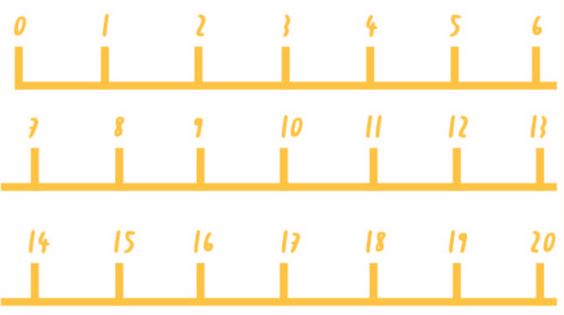
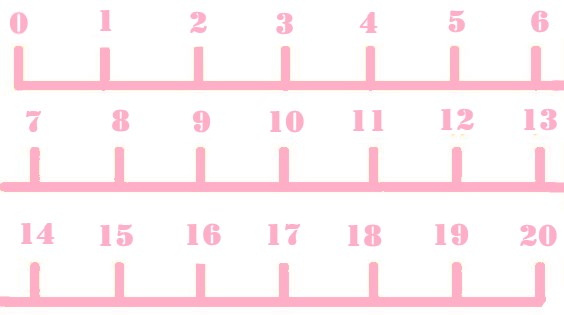
Update

diff --git a/numberLineReceptionMaths/Mechanism.js b/numberLineReceptionMaths/Mechanism.js
@@ -22,11 +22,11 @@ function main(){
         
         if (userAnswerValue===calculatedAnswer) {
             result.className = "correct"
-            result.innerHTML = "You did it Lily, well done!( " + firstNumberLabel.innerText + operatorLabel.innerText + secondNumerLabel.innerText + "=" + userAnswerValue +" )";
+            result.innerHTML = "You did it! Well done! ( " + firstNumberLabel.innerText + " " +  operatorLabel.innerText + " " +  secondNumerLabel.innerText + " = " + userAnswerValue +" )";
         }
         else{
             result.className = "incorrect"
-            result.innerHTML = "No, but try again ( " + firstNumberLabel.innerText + " " + operatorLabel.innerText + " " + secondNumerLabel.innerText + " = " + calculatedAnswer + " NOT " + userAnswerValue + " )";
+            result.innerHTML = "Sorry, try again ( " + firstNumberLabel.innerText + " " + operatorLabel.innerText + " " + secondNumerLabel.innerText + " = " + calculatedAnswer + " not " + userAnswerValue + " )";
         }        
     }
     userAnswer.value = "";

diff --git a/numberLineReceptionMaths/assets/css/style.css b/numberLineReceptionMaths/assets/css/style.css
@@ -1,29 +1,36 @@
+.result {
+    font-family: Papyrus, fantasy;
+    font-size: larger;    
+}
+
 .arithmatic {
-    font-size: 32px;
-    color: goldenrod;
+    font-size: 64px;
+    color: rgb(218, 18, 185);
+    font-weight: bolder;
 }
 
 .correct {
     font-size: 32px;
     color: blue;
+    font-weight: bolder;
 }
 
 .incorrect {
     font-size: 32px;
     color: red;
+    font-weight: bolder;
 }
 
 .button {
-    background-color: #008CBA;
+    background-color: #db4aab;
     border-radius: 15px;
     border: none;
     color: white;
-    padding: 15px 32px;
+    padding: 15px 15px;
     text-align: center;
     text-decoration: none;
     display: inline-block;
-    font-size: 16px;
-    margin: 4px 2px;
+    font-size: 24px;
     cursor: pointer;
   }
 

diff --git a/numberLineReceptionMaths/index.html b/numberLineReceptionMaths/index.html
@@ -15,10 +15,10 @@
     <label id="qSecondNumber">1</label>
     <label id="qEquals">=</label>
     <input class="inputBox" type="text" id="qAnswer">
-    </div>
     <button id="answerBtn" class="button">ANSWER</button> 
+    </div>
     <br><br><br>
-    <label id="result"></label>
+    <label class="result" id="result"></label>
     <script src="Mechanism.js"></script>
 </body>
 </html>
